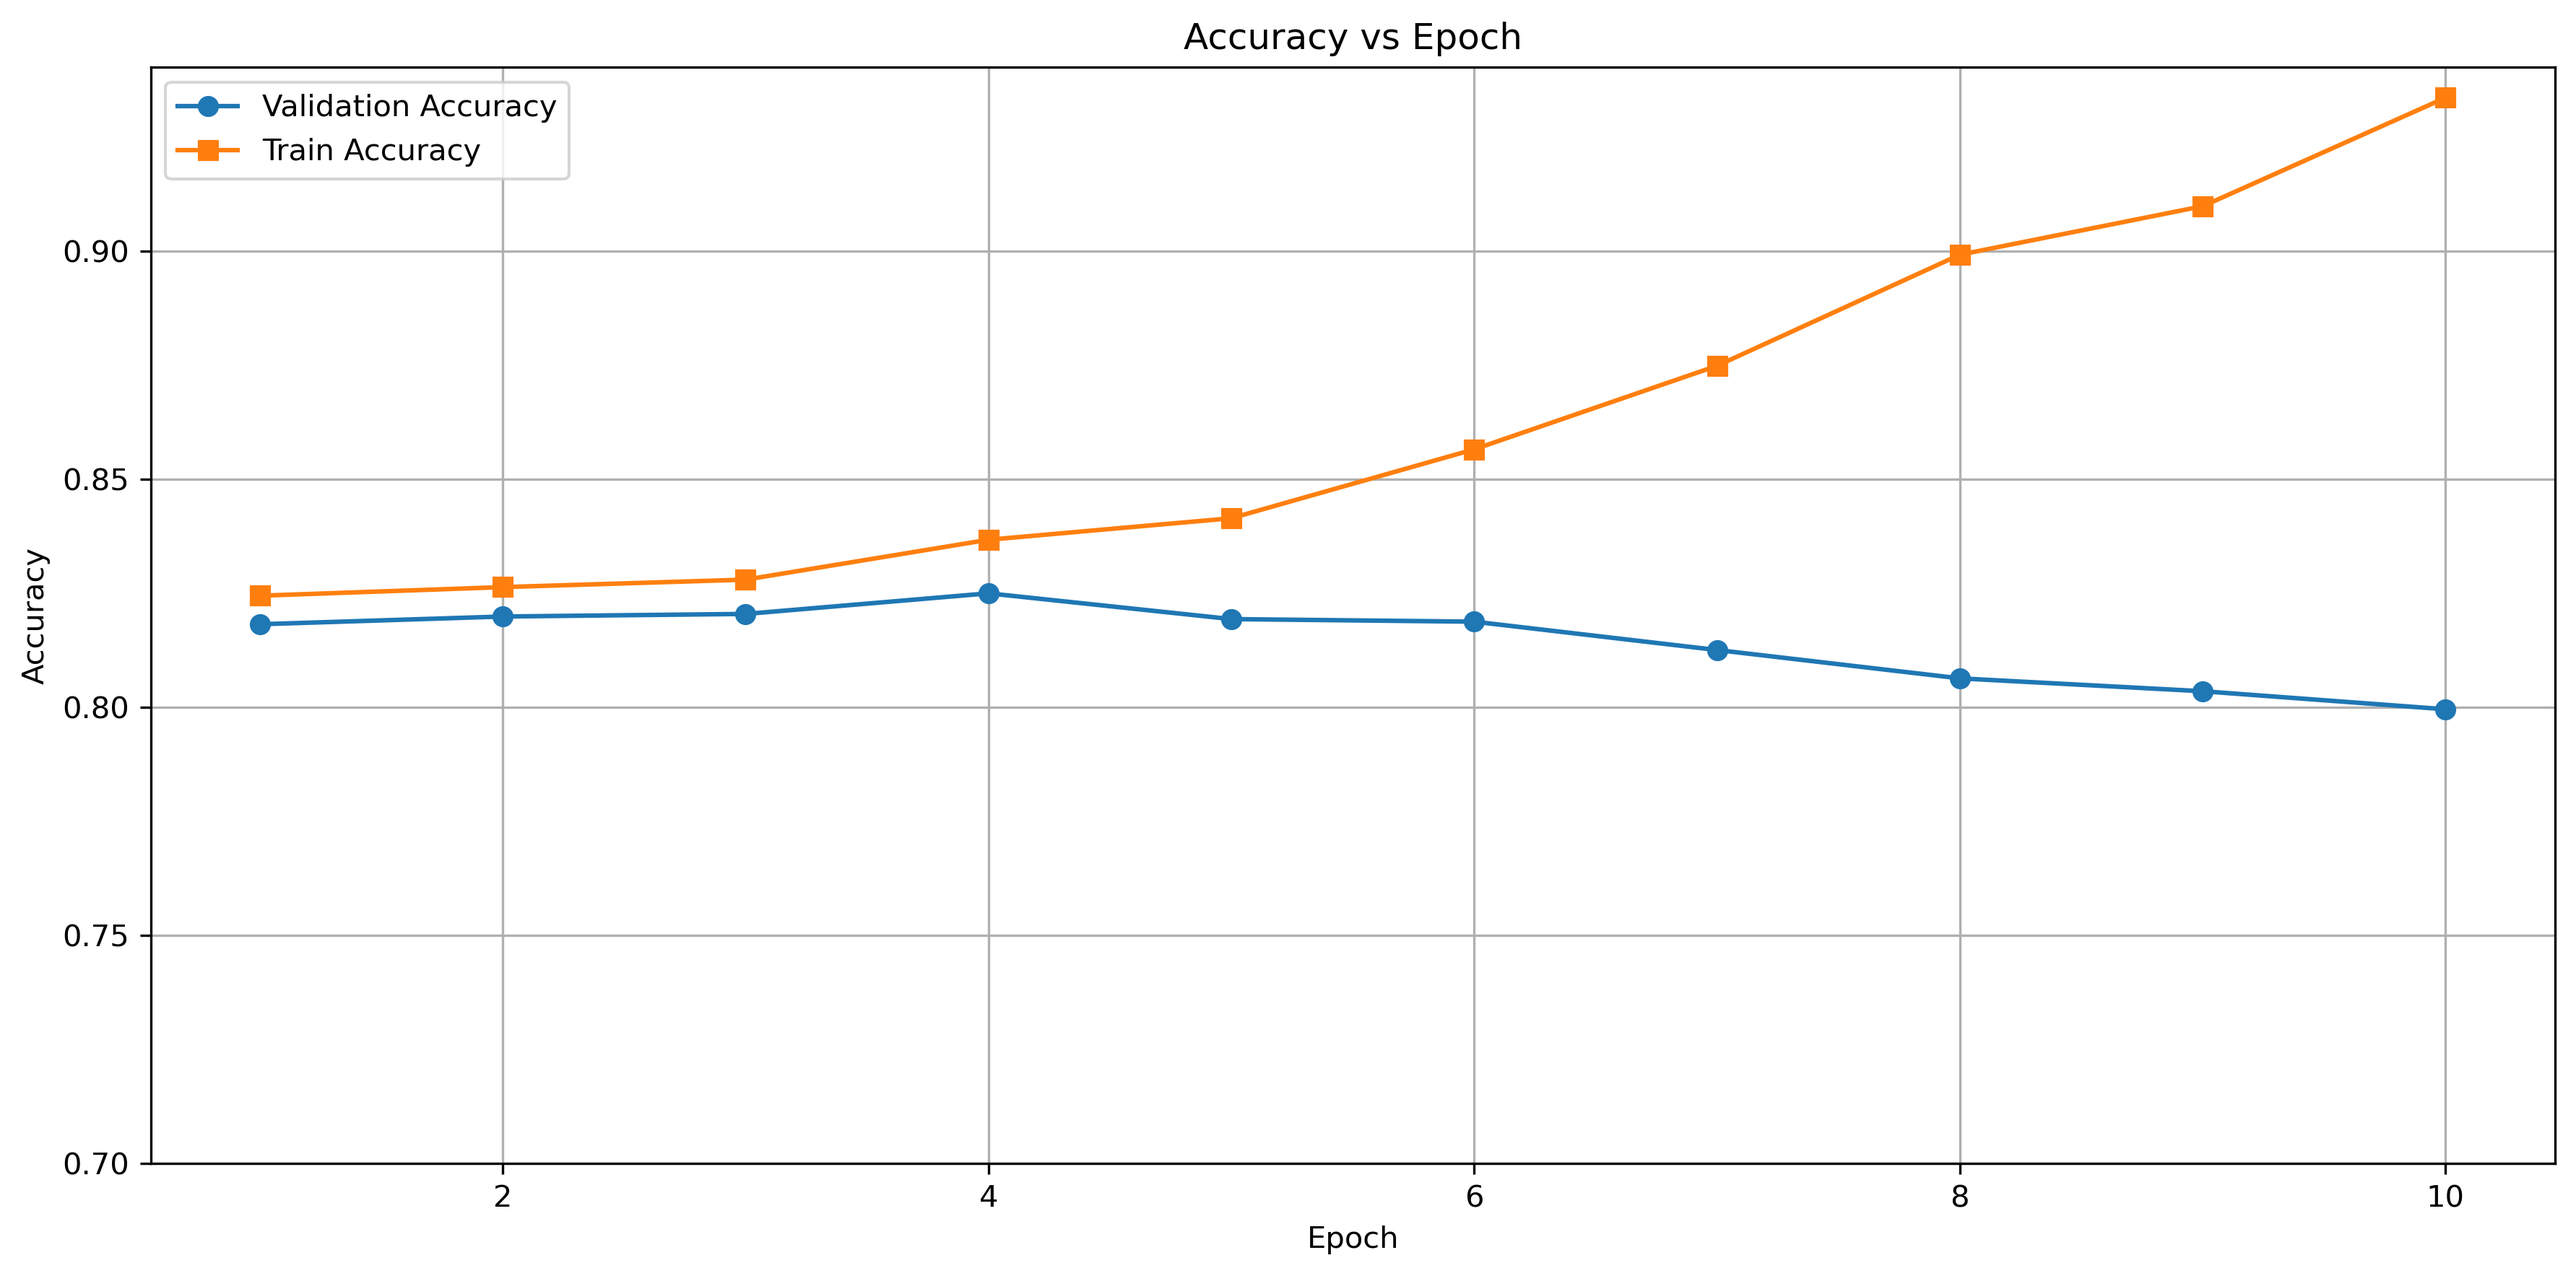
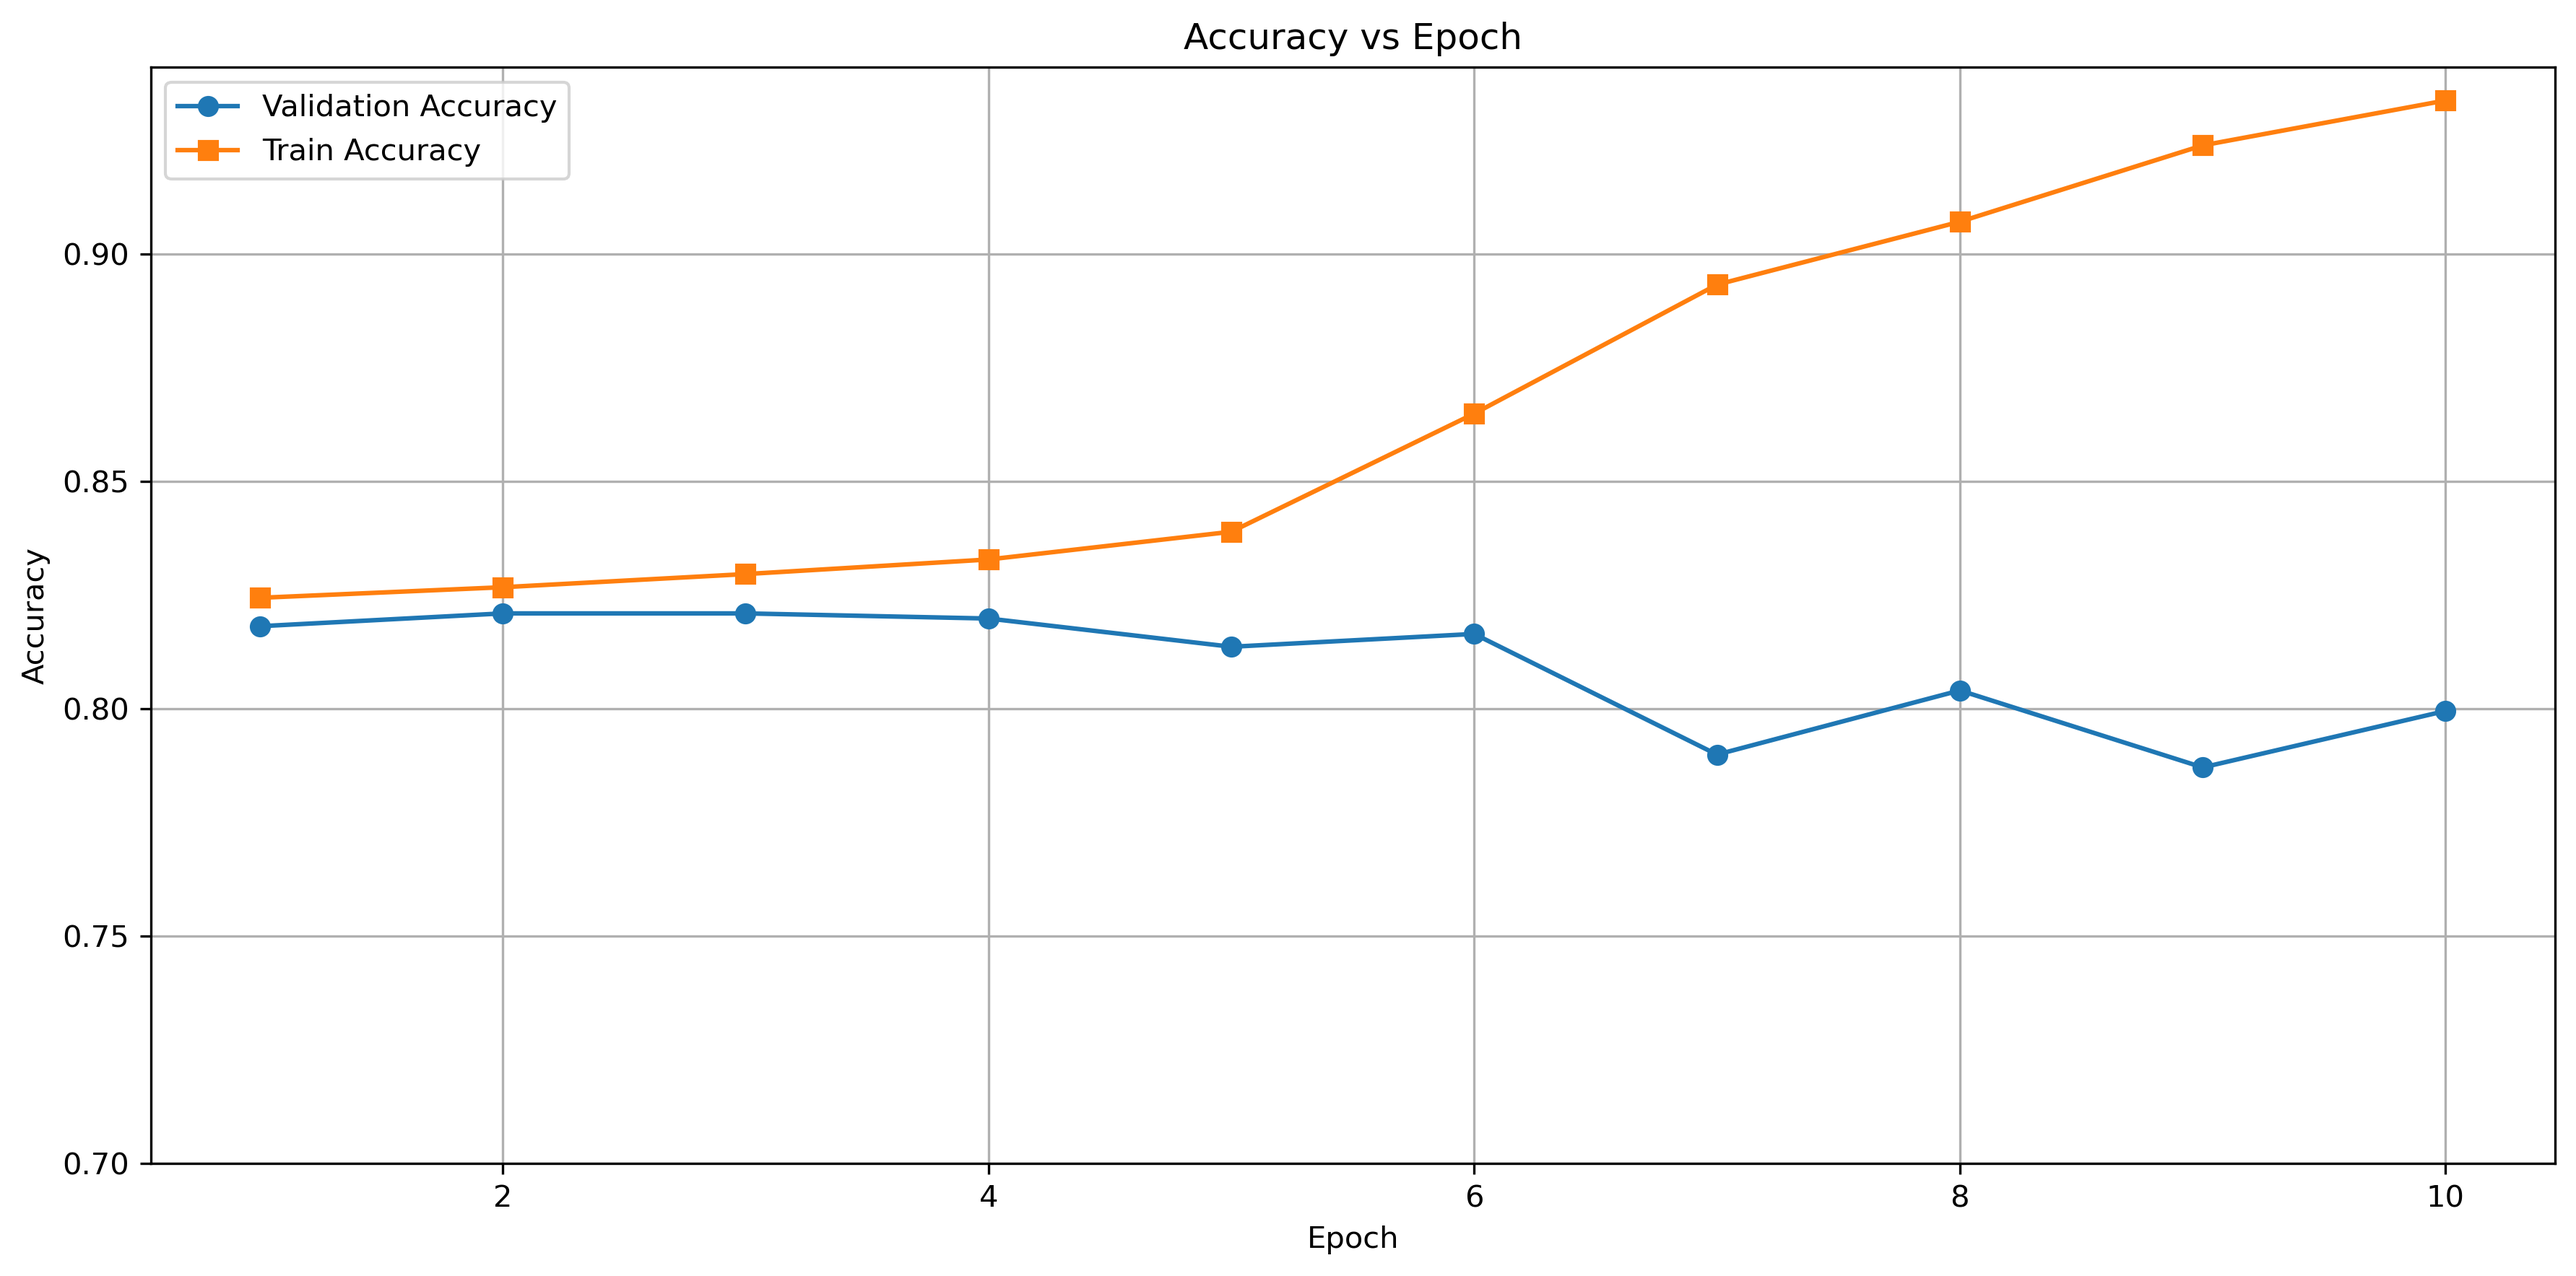
feat(readme): update metrics and add plot scripts and commands

diff --git a/images/ptd-experiments/csvfier.py b/images/ptd-experiments/csvfier.py
@@ -1,0 +1,51 @@
+import re
+import csv
+import sys
+
+# Function to extract metrics from the given output file
+def extract_metrics(file_path):
+    with open(file_path, 'r') as file:
+        data = file.read()
+
+    # Regular expressions to extract the required metrics
+    val_acc_pattern = r"Validation:\n Accuracy: ([0-9.]+)"
+    val_mcc_pattern = r"Validation:\n Accuracy: [0-9.]+ Matthews Coefficient: ([0-9.]+)"
+    train_acc_pattern = r"Total Train:\n Accuracy: ([0-9.]+)"
+    train_mcc_pattern = r"Total Train:\n Accuracy: [0-9.]+ Matthews Coefficient: ([0-9.]+)"
+    
+    val_acc = [float(x) for x in re.findall(val_acc_pattern, data)]
+    val_mcc = [float(x) for x in re.findall(val_mcc_pattern, data)]
+    train_acc = [float(x) for x in re.findall(train_acc_pattern, data)]
+    train_mcc = [float(x) for x in re.findall(train_mcc_pattern, data)]
+    
+    return val_acc, val_mcc, train_acc, train_mcc
+
+# Function to save metrics to a CSV file
+def save_metrics_to_csv(val_acc, val_mcc, train_acc, train_mcc, csv_file_path):
+    # Creating a list of dictionaries for each epoch's data
+    data = []
+    for epoch in range(len(val_acc)):
+        data.append({
+            'Epoch': epoch + 1,
+            'Validation Accuracy': val_acc[epoch],
+            'Validation Matthews Coefficient': val_mcc[epoch],
+            'Total Train Accuracy': train_acc[epoch],
+            'Total Train Matthews Coefficient': train_mcc[epoch]
+        })
+    
+    # Writing the data to a CSV file
+    with open(csv_file_path, mode='w', newline='') as file:
+        writer = csv.DictWriter(file, fieldnames=['Epoch', 'Validation Accuracy', 'Validation Matthews Coefficient', 'Total Train Accuracy', 'Total Train Matthews Coefficient'])
+        writer.writeheader()
+        writer.writerows(data)
+    print(f"Metrics saved to {csv_file_path}")
+
+# Main function
+def main():
+    file_path = sys.argv[1]  # Replace with your file path
+    csv_file_path = f'{sys.argv[1]}-metrics.csv'  # Replace with your desired CSV file path
+    val_acc, val_mcc, train_acc, train_mcc = extract_metrics(file_path)
+    save_metrics_to_csv(val_acc, val_mcc, train_acc, train_mcc, csv_file_path)
+
+if __name__ == "__main__":
+    main()

diff --git a/images/ptd-experiments/better_pngfier.py b/images/ptd-experiments/better_pngfier.py
@@ -1,0 +1,48 @@
+import pandas as pd
+import matplotlib.pyplot as plt
+import sys
+
+# Read the CSV file
+df = pd.read_csv(sys.argv[1])
+
+# Create two figures: one for accuracies and one for Matthews coefficients
+fig_acc, ax_acc = plt.subplots(figsize=(12, 6))
+fig_mcc, ax_mcc = plt.subplots(figsize=(12, 6))
+
+# Plot accuracies
+ax_acc.plot(df['Epoch'], df['Validation Accuracy'], marker='o', linestyle='-', label='Validation Accuracy')
+ax_acc.plot(df['Epoch'], df['Total Train Accuracy'], marker='s', linestyle='-', label='Train Accuracy')
+
+# Plot Matthews coefficients
+ax_mcc.plot(df['Epoch'], df['Validation Matthews Coefficient'], marker='o', linestyle='-', label='Validation Matthews Coefficient')
+ax_mcc.plot(df['Epoch'], df['Total Train Matthews Coefficient'], marker='s', linestyle='-', label='Train Matthews Coefficient')
+
+# Customize accuracy plot
+ax_acc.set_xlabel('Epoch')
+ax_acc.set_ylabel('Accuracy')
+ax_acc.set_title('Accuracy vs Epoch')
+ax_acc.grid(True)
+ax_acc.legend()
+ax_acc.set_ylim(bottom=0.7)  # Set y-axis to start at 0.8
+
+# Customize Matthews coefficient plot
+ax_mcc.set_xlabel('Epoch')
+ax_mcc.set_ylabel('Matthews Coefficient')
+ax_mcc.set_title('Matthews Coefficient vs Epoch')
+ax_mcc.grid(True)
+ax_mcc.legend()
+
+# Adjust layout and save the plots
+plt.figure(fig_acc.number)
+plt.tight_layout()
+plt.savefig(f'{sys.argv[1]}_accuracies_vs_epoch.png', dpi=300, bbox_inches='tight')
+
+plt.figure(fig_mcc.number)
+plt.tight_layout()
+plt.savefig(f'{sys.argv[1]}_matthews_coefficients_vs_epoch.png', dpi=300, bbox_inches='tight')
+
+# Close the plots to free up memory
+plt.close(fig_acc)
+plt.close(fig_mcc)
+
+print("Merged plots have been generated and saved.")

diff --git a/README.md b/README.md
@@ -104,14 +104,30 @@ python3 bart_detection.py --use_gpu # run the experiment
 
 <details>
 
-<summary>bash commands to run each experiment</summary>
+<summary>bash commands to run each experiment and reproduce the plots</summary>
+
+#### Baseline
+
+```bash
+git checkout ptd-exp1
+conda activate dnlp
+python3 bart_detection.py --use_gpu > exp1.txt 2>&1
+mv exp1.txt images/ptd-experiment
+cd images/ptd-experiment
+python3 csvfier.py exp1.txt
+python3 better_pngfier.py exp1.txt-metrics.csv
+```
 
 #### Experiment 1
 
 ```bash
 git checkout ptd-exp2
 conda activate dnlp
-python3 bart_detection.py --use_gpu
+python3 bart_detection.py --use_gpu > exp2.txt 2>&1
+mv exp2.txt images/ptd-experiment
+cd images/ptd-experiment
+python3 csvfier.py exp2.txt
+python3 better_pngfier.py exp2.txt-metrics.csv
 ```
 
 #### Experiment 2
@@ -119,7 +135,11 @@ python3 bart_detection.py --use_gpu
 ```bash
 git checkout ptd-exp3
 conda activate dnlp
-python3 bart_detection.py --use_gpu
+python3 bart_detection.py --use_gpu > exp3.txt 2>&1
+mv exp3.txt images/ptd-experiment
+cd images/ptd-experiment
+python3 csvfier.py exp3.txt
+python3 better_pngfier.py exp3.txt-metrics.csv
 ```
 
 #### Experiment 3
@@ -127,7 +147,11 @@ python3 bart_detection.py --use_gpu
 ```bash
 git checkout ptd-exp4
 conda activate dnlp
-python3 bart_detection.py --use_gpu
+python3 bart_detection.py --use_gpu > exp4.txt 2>&1
+mv exp4.txt images/ptd-experiment
+cd images/ptd-experiment
+python3 csvfier.py exp4.txt
+python3 better_pngfier.py exp4.txt-metrics.csv
 ```
 
 #### Experiment 4
@@ -135,7 +159,11 @@ python3 bart_detection.py --use_gpu
 ```bash
 git checkout ptd-exp5
 conda activate dnlp
-python3 bart_detection.py --use_gpu
+python3 bart_detection.py --use_gpu > exp5.txt 2>&1
+mv exp5.txt images/ptd-experiment
+cd images/ptd-experiment
+python3 csvfier.py exp5.txt
+python3 better_pngfier.py exp5.txt-metrics.csv
 ```
 
 #### Experiment 5
@@ -143,7 +171,11 @@ python3 bart_detection.py --use_gpu
 ```bash
 git checkout ptd-exp6
 conda activate dnlp
-python3 bart_detection.py --use_gpu
+python3 bart_detection.py --use_gpu > exp6.txt 2>&1
+mv exp6.txt images/ptd-experiment
+cd images/ptd-experiment
+python3 csvfier.py exp6.txt
+python3 better_pngfier.py exp6.txt-metrics.csv
 ```
 
 #### Experiment 6
@@ -151,7 +183,11 @@ python3 bart_detection.py --use_gpu
 ```bash
 git checkout ptd-exp7
 conda activate dnlp
-python3 bart_detection.py --use_gpu
+python3 bart_detection.py --use_gpu > exp7.txt 2>&1
+mv exp7.txt images/ptd-experiment
+cd images/ptd-experiment
+python3 csvfier.py exp7.txt
+python3 better_pngfier.py exp7.txt-metrics.csv
 ```
 
 #### Experiment 7
@@ -159,7 +195,11 @@ python3 bart_detection.py --use_gpu
 ```bash
 git checkout ptd-exp8
 conda activate dnlp
-python3 bart_detection.py --use_gpu --optuna_optim
+python3 bart_detection.py --use_gpu --optuna_optim > exp8.txt 2>&1
+mv exp8.txt images/ptd-experiment
+cd images/ptd-experiment
+python3 csvfier.py exp8.txt
+python3 better_pngfier.py exp8.txt-metrics.csv
 ```
 
 <details>
@@ -268,7 +308,7 @@ After fine-tuning on PAWS, we used the resulting weights as the starting point f
 
 ### Paraphrase Type Generation
 
-All experiments for this task are evaulated using MCC. Early stoppping is used within all experiments to use the model with the best Validation MCC. A train val split of 0.9 was used (since the dataset is not very large). Also all accuracy graphs begin at 0.7 (ie 70% accuracy). The hyper-parameters chosen are the same for all the experiments. The reasoning for their values is discussed [here](#Hyperparameter_Optimization) and also justified by Hyper parameter optimisation using Optuna in Experiment number 7.
+All experiments for this task are evaulated using MCC. Early stoppping is used within all experiments to use the model with the best Validation MCC. A train val split of 0.9 was used (since the dataset is not very large). Also all accuracy graphs begin at 0.7 (ie 70% accuracy). The hyper-parameters chosen are the same for all the experiments. The reasoning for their values is discussed [here](#hyperparameter-optimization) and also justified by Hyper parameter optimisation using Optuna in Experiment number 7.
 
 <details>
 <summary><h4>Experiment 1</h4></summary>
@@ -323,12 +363,12 @@ All experiments for this task are evaulated using MCC. Early stoppping is used w
 - What have you changed compared to the base model (or to previous experiments, if you run experiments on top of each other)?
   - it's the same as experiment 2 but with smart loss added on top
 - What were the results?
-  - xxxxxxxx
+  - The accuracy for this model is even worse than the base line even if the mcc is better at 0.073.
 - Add relevant metrics and plots that describe the outcome of the experiment well.
-  GET THIS DATA AGAIN
   ![accuracies](images/ptd-experiments/exp4.txt-metrics.csv_accuracies_vs_epoch.png) ![mccs](images/ptd-experiments/exp4.txt-metrics.csv_matthews_coefficients_vs_epoch.png)
 
 - Discuss the results. Why did improvement _A_ perform better/worse compared to other improvements? Did the outcome match your expectations? Can you recognize any trends or patterns?
+  - Even though smart loss was added, the vae overfits to do the data quite a lot. This is unexpected since the randomness should have made the model more generalised instead of more specific to the data.
 
 </details>
 
@@ -343,7 +383,7 @@ All experiments for this task are evaulated using MCC. Early stoppping is used w
 - What have you changed compared to the base model (or to previous experiments, if you run experiments on top of each other)?
   - I have added the smart loss to the existing loss
 - What were the results?
-  - This experiment provides the MCC yet, a MCC of 0.096
+  - This experiment provides the highest MCC yet, a MCC of 0.099.
 - Add relevant metrics and plots that describe the outcome of the experiment well.
 
 ![accuracies](images/ptd-experiments/exp5.txt-metrics.csv_accuracies_vs_epoch.png) ![mccs](images/ptd-experiments/exp5.txt-metrics.csv_matthews_coefficients_vs_epoch.png)
@@ -364,7 +404,7 @@ All experiments for this task are evaulated using MCC. Early stoppping is used w
 - What have you changed compared to the base model (or to previous experiments, if you run experiments on top of each other)?
   - I have added another head to train for paraphrase detection and another data loading pipeline for paraphrase detection.
 - What were the results?
-  - The model performs slightly better than baseline with mcc of 0.081
+  - The model performs slightly better than baseline with mcc of 0.058.
 - Add relevant metrics and plots that describe the outcome of the experiment well.
 
 ![accuracies](images/ptd-experiments/exp6.txt-metrics.csv_accuracies_vs_epoch.png) ![mccs](images/ptd-experiments/exp6.txt-metrics.csv_matthews_coefficients_vs_epoch.png)
@@ -378,8 +418,15 @@ All experiments for this task are evaulated using MCC. Early stoppping is used w
 <summary><h4>Experiment 6</h4></summary>
 
 - What experiments are you executing? Don't forget to tell how you are evaluating things.
-  - Here I added 4 layers with ReLU and batch norm along with Focal Loss
-    - TODO: add code example here
+  - Here I added 4 layers with ReLU and batch norm along with Focal Loss. Each layers looks like the following (except the last one, which is a single linear layer)
+    - ```python
+      nn.Sequential(
+          nn.Linear(linear_size, linear_size),
+          nn.LayerNorm(linear_size),
+          nn.ReLU(),
+          nn.Dropout(dropout_rate),
+      )
+      ```
   - branch name: `ptd-exp7`
 - What were your expectations for this experiment?
   - Focal loss would better solve the class imbalance observed and would result is less over fitting.
@@ -450,11 +497,11 @@ Summarize all the results of your experiments in tables:
 | **Paraphrase Type Detection (PTD)** | **Accuracy** | **MCC** |
 | ----------------------------------- | ------------ | ------- |
 | Baseline (exp1)                     | 79.2%\*      | 0.049   |
-| VAE (exp3)                          | 80.9%        | 0.066   |
-| VAE + smart loss (exp4)             | 79.8%        | 0.068   |
-| Smart loss (exp5)                   | 79.6%        | 0.096   |
-| Simultaneos training (exp6)         | 81.1%        | 0.081   |
-| Deep layers with Focal Loss (exp7)  | 79.6%        | 0.062   |
+| VAE (exp3)                          | 80.7%        | 0.092   |
+| VAE + smart loss (exp4)             | 78.7%        | 0.073   |
+| Smart loss (exp5)                   | 80.5%        | 0.099   |
+| Simultaneos training (exp6)         | 82.7%        | 0.058   |
+| Deep layers with Focal Loss (exp7)  | 82.6%        | 0.064   |
 
 | **Paraphrase Type Generation (PTG)** | **Metric 1** | **Metric n** |
 | ------------------------------------ | ------------ | ------------ |
@@ -465,7 +512,7 @@ Summarize all the results of your experiments in tables:
 
 Notes:
 
-- \*_These metrics for the baseline were observed after attempting to confirm and reproduce the final results. The initial recording of these metrics were 82.1% accuracy and 0.069 mcc._
+- \*_These metrics for the baseline were observed after attempting to confirm and reproduce the final results. The initial recording of these metrics were 82.1% accuracy and 0.069 mcc but they are not longer reproducible._
 
 > Discuss your results, observations, correlations, etc.
 
@@ -486,6 +533,14 @@ Notes:
 > - Does improvement A converge faster during training than improvement B?
 > - Does Improvement B converge slower but perform better in the end?
 > - etc...
+
+### Paraphrase Type Generation
+
+#### Baseline
+
+![accuracies](images/ptd-experiments/exp1.txt-metrics.csv_accuracies_vs_epoch.png) ![mccs](images/ptd-experiments/exp1.txt-metrics.csv_matthews_coefficients_vs_epoch.png)
+
+#### All experiments together
 
 ## Members Contribution
 
